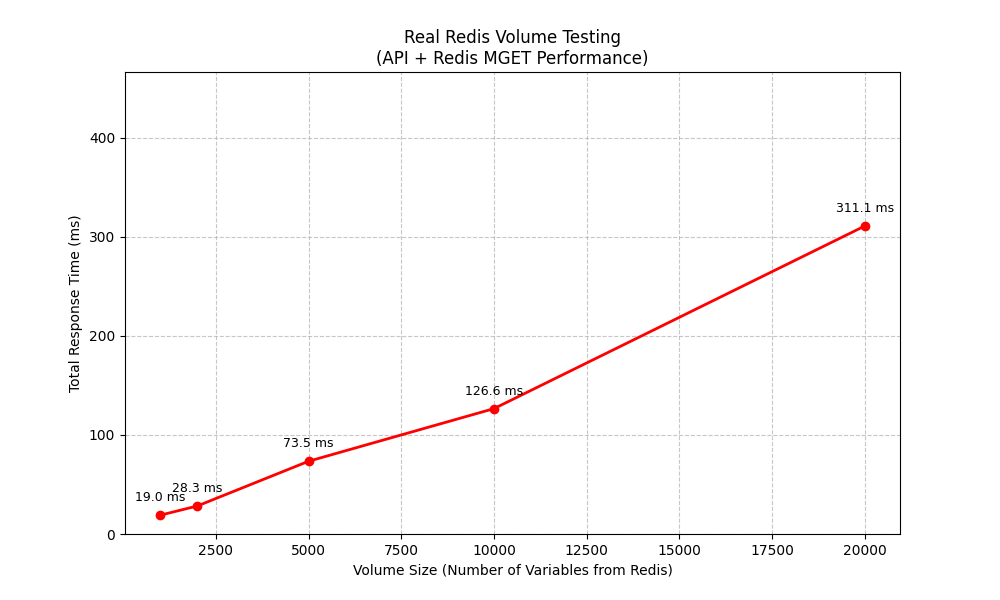
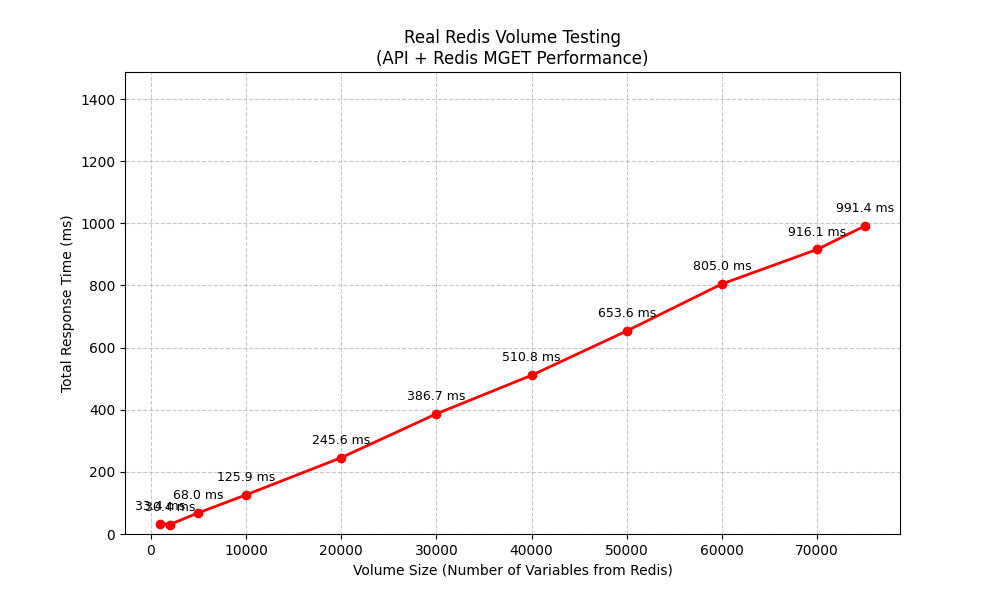
SIT 11:18 05/03/2026

diff --git a/project/lib/services/Volume_Testing.py b/project/lib/services/Volume_Testing.py
@@ -10,7 +10,7 @@ REDIS_HOST = "127.0.0.1"
 REDIS_PORT = 6379
 
 # จำลองจำนวนตัวแปร: 1000 (5 Plants), 2000 (10 Plants), ไปเรื่อยๆ
-volume_sizes = [1000, 2000, 5000, 10000, 20000]
+volume_sizes = [1000, 2000, 5000, 10000, 20000, 30000, 40000, 50000, 60000, 70000, 75000]
 response_times = []
 
 # เชื่อมต่อ Redis สำหรับสร้าง Data จำลอง
